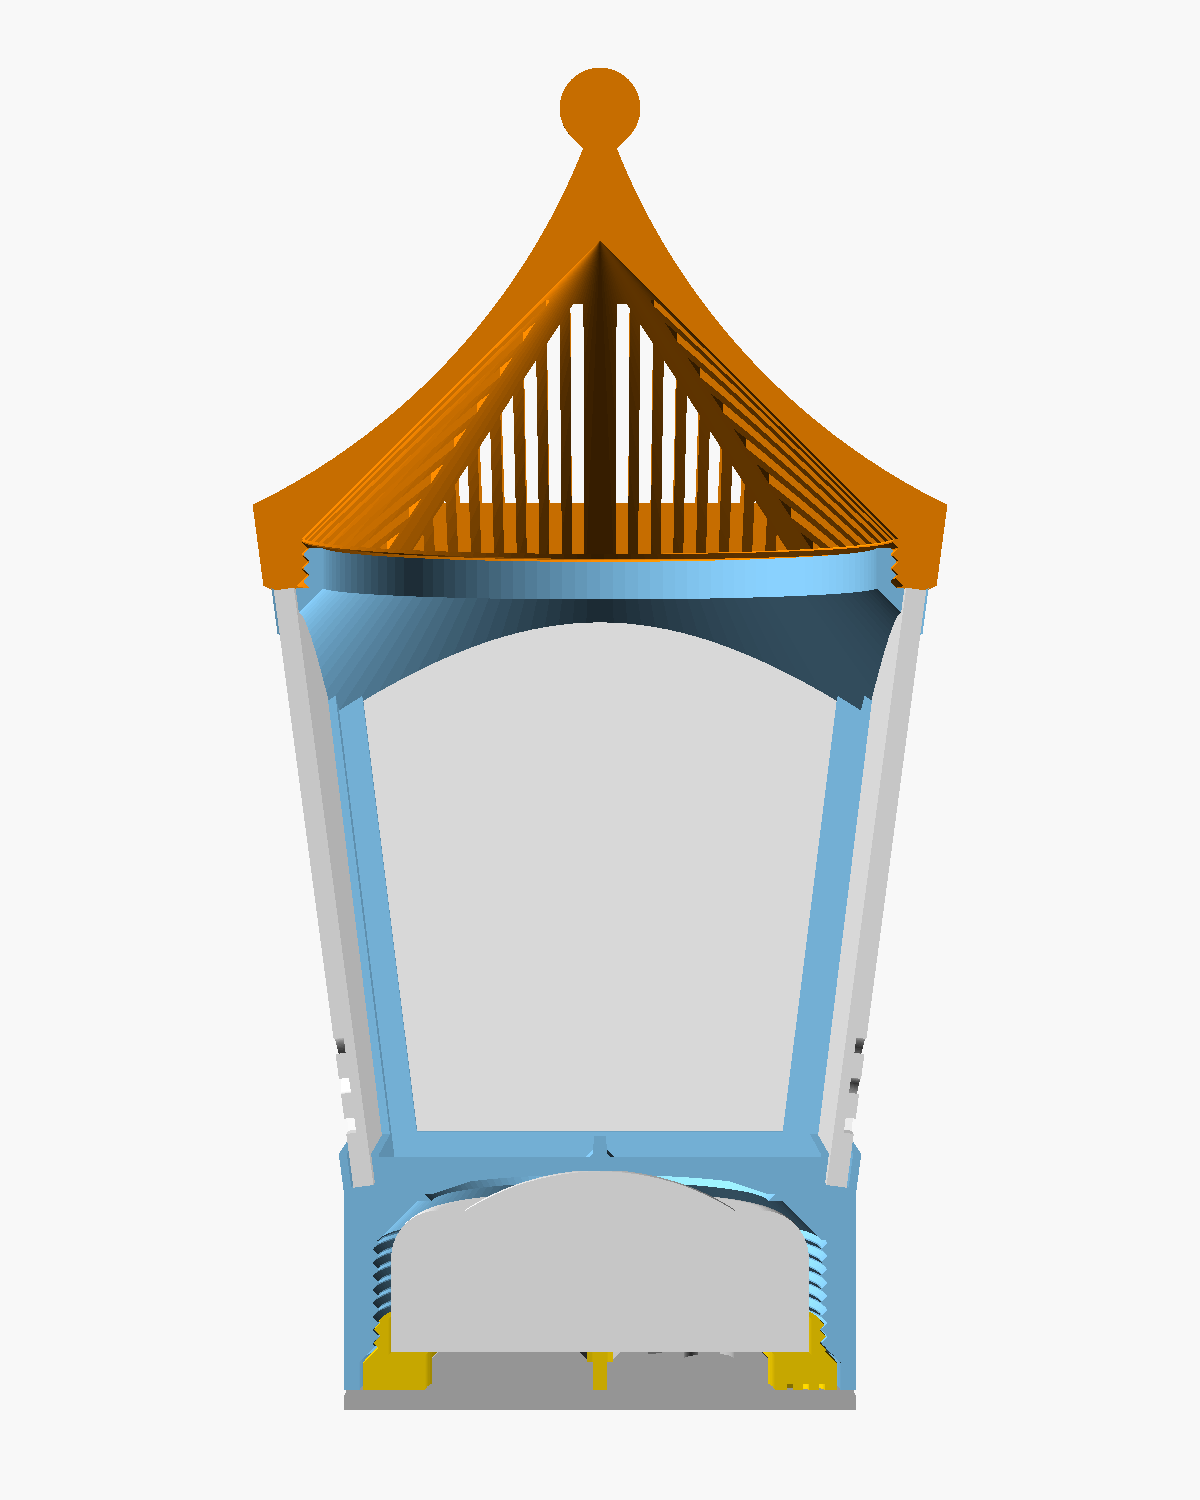
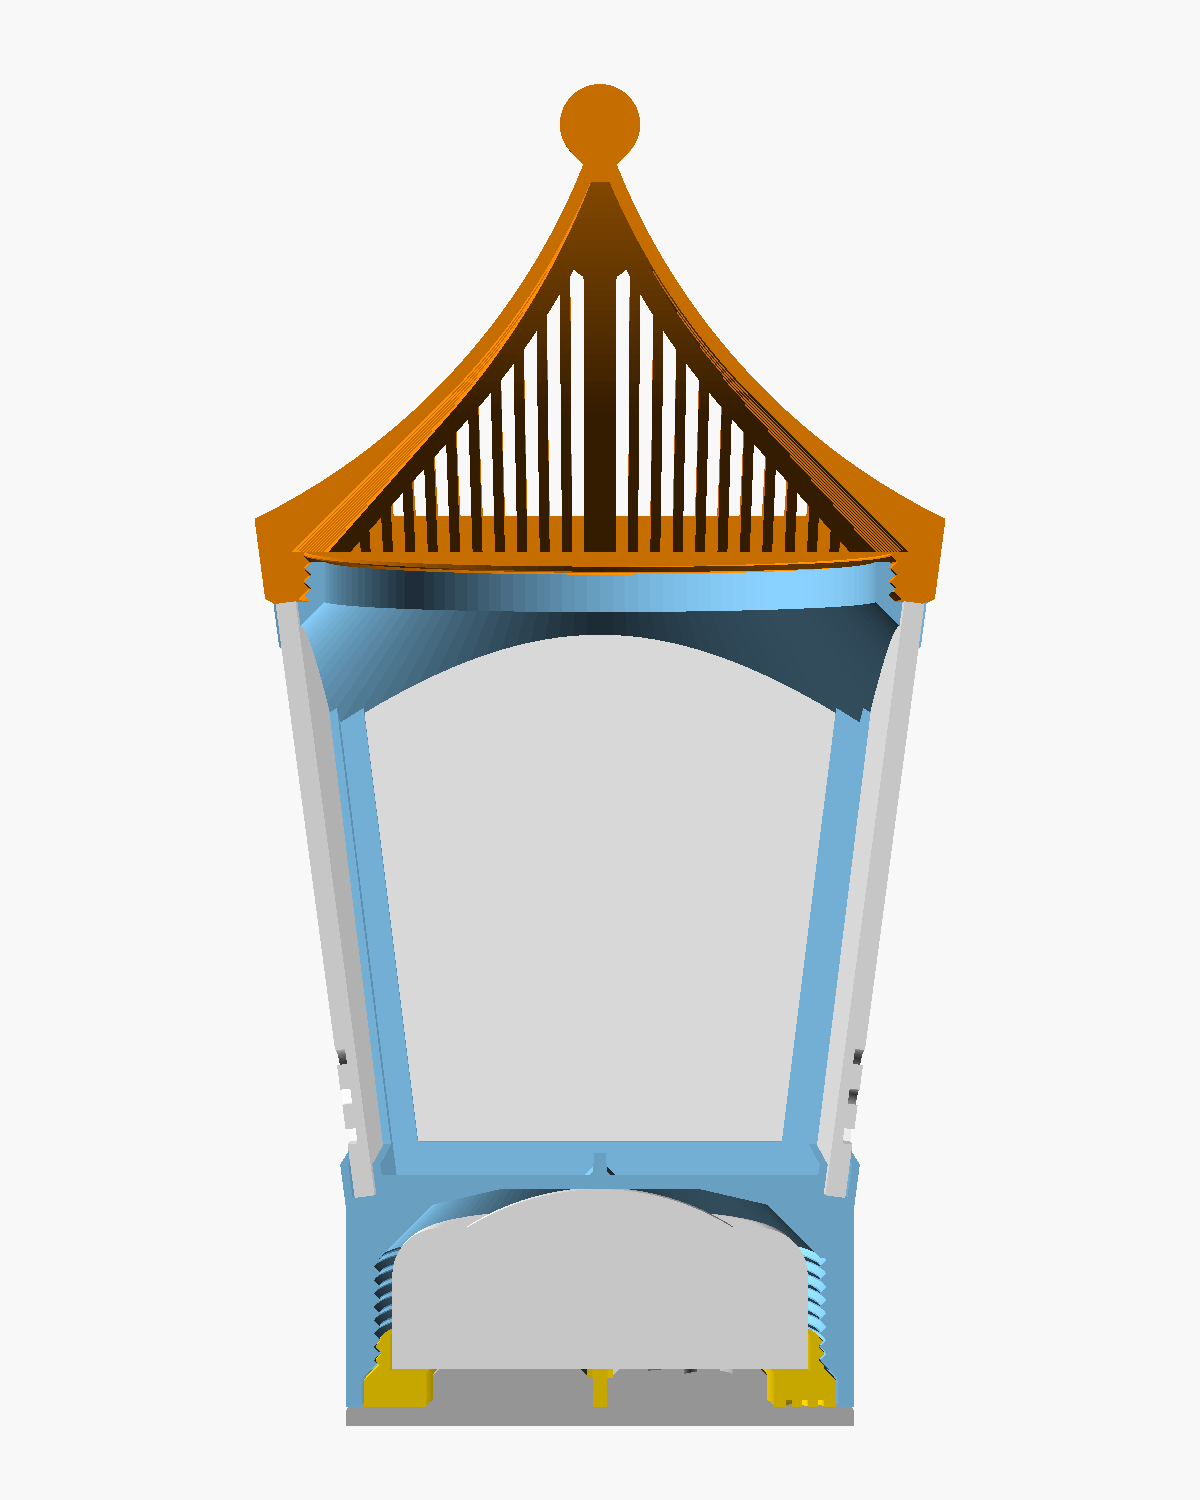
Lantern 3: roof as a 2 mm shell, holder V3
The roof was hollow only in a round 45 degree cone above the thread, so its
square corners and hips were solid. It is now a shell, roof_wall (2 mm)
thick square to its surface, on a 2 mm floor, with a ring around the
thread; the band's corners are hollow down to the floor. Where the curve
is flatter than 45 degrees, near the eaves, the inside stays a 45 degree
plane, so it still prints without support. 53 instead of 88 cm3. The slits
now go through everywhere except the squares at the eaves.

The holder part is copied from RGBW_pucklight_holderV3.scad: no flat
ceiling around the window, so the top part and the lantern are 1.1 mm
higher. Preview and section rendered again.

diff --git a/projects/RGBW_pucklight_lantern3/readme.md b/projects/RGBW_pucklight_lantern3/readme.md
@@ -16,7 +16,7 @@ pillars.
   band carries the neck the roof screws onto. Each pillar has a slit on
   both sides for the windows.
 - `roof`: a 12 mm band that continues the frame's sides, then curved sides
-  up to a ball. It has the female thread inside the band.
+  up to a ball, as a 2 mm shell. It has the female thread inside the band.
 - `screwin`: the holder's bottom screw. It holds the puck in the frame.
 - `clickbase`: the holder's click base.
 - `window` (4x): a flat 3 mm plate, 61.7 mm wide at the bottom, 85.3 mm at
@@ -24,7 +24,7 @@ pillars.
   from 3 mm acrylic.
 
 `part` shows the assembly on the click base, the assembly cut in half, all
-parts, or one part. The lantern is 199 mm high on the click base.
+parts, or one part. The lantern is 200 mm high on the click base.
 
 ![section](section.png)
 
@@ -33,11 +33,16 @@ parts, or one part. The lantern is 199 mm high on the click base.
 The puck's mount is the holder project's. Its parameters, `toppart()`,
 `bottom_screw()`, `clickbase()`, `puck()`, `threaded_rod()` and the logo
 are copied unchanged from
-`../RGBW_pucklight_holder/RGBW_pucklight_holderV2.scad`, so the generator
+`../RGBW_pucklight_holder/RGBW_pucklight_holderV3.scad`, so the generator
 needs no other file and runs in a browser OpenSCAD playground too. The
 holder's parameters are in the Customizer under Puck light, Holder top
 part, Screwin and Click base, and the frame follows the top part's size.
 If the holder project changes, copy the change over by hand.
+
+In V3 the cavity's 45 degree shoulder runs up to the window's edge, instead
+of ending on a flat ceiling that overhung 2.1 mm over the puck. So the top
+part, where the frame starts, is 30.2 mm high instead of 29.1, and the
+lantern is 1.1 mm higher.
 
 It clicks as in the holder (see its readme): the lantern stands on the
 click base and floats on the puck's dome; pressing the lantern down clicks
@@ -77,18 +82,26 @@ chamfered top. Its bore lets the light into the roof.
   the axis 60 mm (`roof_rise`) higher, 26 degrees steep at the eaves and
   steeper towards the top. It ends 5 mm wide under a 12 mm ball, which
   stands on a 45 degree cone.
-- inside: the female thread, with 0.3 mm radial clearance
-  (`roof_thread_clearance`) and a 45 degree lead-in, up to 7 mm, then a hollow
-  45 degree cone. So the roof is thicker towards the eaves; at its thinnest,
-  in the middle of a face, it is 4.6 mm (measured horizontally).
+- thread: female, with 0.3 mm radial clearance (`roof_thread_clearance`)
+  and a 45 degree lead-in, up to 7 mm, in a ring that meets the band's
+  walls in the middle of each face.
+- shell: around it the roof is a shell, 2 mm (`roof_wall`) thick square to
+  its surface, on a 2 mm floor; in the band's corners it is hollow down to
+  the floor. The lower 18 mm of the curve, above the eaves, is flatter than
+  45 degrees. There the inside stays a 45 degree plane, so it prints
+  without support, and the shell gets thicker towards the eaves: 4.6 mm at
+  the eaves in the middle of a face, more along the hips. The hollow ends
+  in a 2.7 mm wide flat ceiling under the tip of the ball's cone.
 - slits: vertical, 2 mm wide (`slit_width`) and 1.6 mm apart
   (`slit_spacing`), along each face, kept 2.5 mm (`slit_margin`) from the
   hips, the eaves, the middle of the face and the ball, with a row of 2 mm
-  squares along the eaves. They are cut from the thread's top up: over the
-  cone they go through and let the light out; outside it, near the eaves
-  and in the corners, they end blind in the band.
+  squares along the eaves. They are cut from the thread's top up and go
+  through the shell, except the squares at the eaves, which end blind in
+  the band.
 
-The roof is 76.9 mm high.
+The roof is 76.9 mm high and takes 53 cm³ of material (88 cm³ when it was
+hollow only in a 45 degree cone above the thread). A 2 mm shell all the way
+to the eaves would be 40 cm³, but it would need support under the eaves.
 
 ### lining the roof up
 
@@ -111,12 +124,13 @@ The VeryOS logo is engraved in every part:
 
 ## printing
 
-Print the frame standing (125 mm high with the neck), the roof standing on
+Print the frame standing (126 mm high with the neck), the roof standing on
 its band, the screwin and the click base as in the holder, and the windows
-flat with the logo up. Nothing needs support: the frame's funnel, the
-roof's cone and the ball's cone are 45 degrees, the threads have 45 degree
-flanks, the pillars lean out 7.6 degrees, and the holder's ribs bridge its
-window as in the holder. For the windows, a translucent or white filament
+flat with the logo up. Nothing needs support: the frame's funnel and the
+ball's cone are 45 degrees, the roof's inside is no flatter than 45
+degrees, its ceiling under the ball bridges 2.7 mm, the threads have 45
+degree flanks, the pillars lean out 7.6 degrees, and the holder's ribs
+bridge its window as in the holder. For the windows, a translucent or white filament
 diffuses the light; at 3 mm it lets less light through than a thinner
 window.
 
@@ -138,14 +152,14 @@ window.
 - the frame's top band sits behind the windows, with a 45 degree funnel
   under it, instead of a plate with a lip in front of the windows all
   around.
-- the roof is hollow in a 45 degree cone instead of a 1.8 mm shell, whose
-  underside would overhang more than 60 degrees at the eaves.
+- the roof is a 2 mm shell instead of 1.8 mm, and thicker near the eaves:
+  a shell of constant thickness would overhang more than 60 degrees there.
 - the slits are 3.6 mm wide instead of 3 mm: a 3 mm window and 0.3 mm
   clearance on each side. They follow `window_thickness`.
 - the pillars are 10 mm wide, to hold two such slits.
 - the roof lines up through `roof_seat_gap` instead of the fine-tuning ring.
 - the ball stands on a 45 degree cone instead of a rounded neck.
-- the holder (top part, screw and click base) is the V2 holder project's,
+- the holder (top part, screw and click base) is the V3 holder project's,
   with its pins and slot, instead of the plain click base.
 - the star cutouts in the roof (`cutout_star`) are not included.
 
@@ -153,7 +167,9 @@ window.
 
 Nothing here has been printed yet. The lantern's weight rests on the
 puck's dome while it stands on the click base; if that is enough to click
-the light, stand it on something else.
+the light, stand it on something else. In the roof's upper part the bars
+between the slits are 1.6 mm wide and only as deep as the 2 mm shell; if
+they are too weak, raise `roof_wall`.
 
 ## files
 
